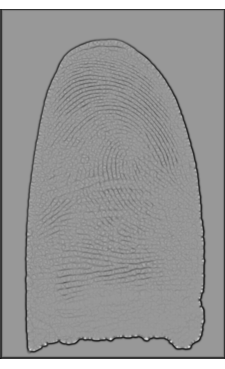
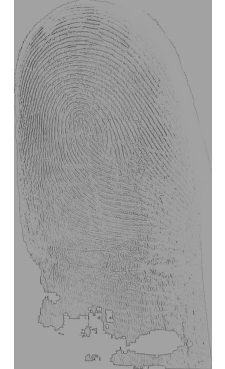
merge process

diff --git a/server/__init__.py b/server/__init__.py
@@ -32,29 +32,29 @@ while True:
 # cv2.imshow("imgo", imgo)
 
 # Removing the background
-    height, width = imgo.shape[:2]
-
-# Create a mask holder
-    mask = np.zeros(imgo.shape[:2], np.uint8)
-
-# Grab Cut the object
-    bgdModel = np.zeros((1, 65), np.float64)
-    fgdModel = np.zeros((1, 65), np.float64)
-
-# Hard Coding the Rect… The object must lie within this rect.
-    rect = (10, 10, width - 30, height - 30)
-    cv2.grabCut(imgo, mask, rect, bgdModel, fgdModel, 5, cv2.GC_INIT_WITH_RECT)
-    mask = np.where((mask == 2) | (mask == 0), 0, 1).astype("uint8")
-    img1 = imgo * mask[:, :, np.newaxis]
-
-# Get the background
-    background = cv2.absdiff(imgo, img1)
-
-# Change all pixels in the background that are not black to white
-    background[np.where((background > [0, 0, 0]).all(axis=2))] = [255, 255, 255]
+#     height, width = imgo.shape[:2]
+#
+# # Create a mask holder
+#     mask = np.zeros(imgo.shape[:2], np.uint8)
+#
+# # Grab Cut the object
+#     bgdModel = np.zeros((1, 65), np.float64)
+#     fgdModel = np.zeros((1, 65), np.float64)
+#
+# # Hard Coding the Rect… The object must lie within this rect.
+#     rect = (10, 10, width - 30, height - 30)
+#     cv2.grabCut(imgo, mask, rect, bgdModel, fgdModel, 5, cv2.GC_INIT_WITH_RECT)
+#     mask = np.where((mask == 2) | (mask == 0), 0, 1).astype("uint8")
+#     img1 = imgo * mask[:, :, np.newaxis]
+#
+# # Get the background
+#     background = cv2.absdiff(imgo, img1)
+#
+# # Change all pixels in the background that are not black to white
+#     background[np.where((background > [0, 0, 0]).all(axis=2))] = [255, 255, 255]
 
 # Add the background and the image
-    final = background + img1
+    final = imgo
 
 # To be done – Smoothening the edges….
 
@@ -136,10 +136,10 @@ while True:
         # cv.destroyAllWindows()
 
     if flag == 0:
-        stri = "No one matches this finger print!!"
+        stri = "No one matches this fingerprint!!"
         # print(stri)
     print(stri)
-    # stri = "No one matches this finger print!!"
+    # stri = "No one matches this fingerprint!!"
     # print(stri)
 
     client_socket = socket.socket()  # instantiate
